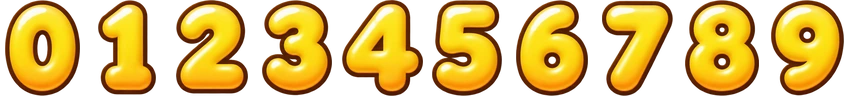
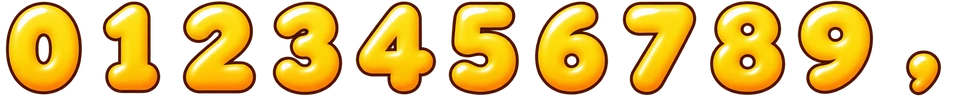
v0.9.22 점수 숫자 그림을 얇은 테두리로 새로(Codex), 쉼표도 그림으로

diff --git a/index.html b/index.html
@@ -1558,7 +1558,7 @@
   const elTitle = document.getElementById("overTitle");
   const coinNote = document.getElementById("coinNote");
 
-  const GAME_VERSION = "v0.9.21";
+  const GAME_VERSION = "v0.9.22";
   /* 제작사 스플래시(bamhobak friends 로고) — 2026-09-20 끔. 다시 켜려면 true */
   const SPLASH_USE = false;   // 코드를 고칠 때마다 뒤 두 자리를 올린다
   document.getElementById("ver").textContent = GAME_VERSION;
@@ -14195,7 +14195,7 @@
 
   /* v0.8.78 점수 숫자 — Codex 로 그린 사탕 숫자 0~9 (assets/ui/digits.webp, 한 칸 85x96 · 글자 폭 DIGIT_W).
      쉼표·m 같은 다른 글자는 그 자리에서 글자로 그린다. 높이 h 에 맞춰 줄이고, 그린 폭을 돌려준다(못 그리면 0) */
-  const DIGIT_W = [75, 58, 72, 70, 81, 70, 72, 71, 74, 73], DIGIT_CW = 85, DIGIT_CH = 96;
+  const DIGIT_W = [78, 59, 75, 71, 82, 72, 75, 75, 77, 77, 37], DIGIT_CW = 88, DIGIT_CH = 96;   // v0.9.22 얇은 테두리(Codex digits_thin) · 11번째 칸은 쉼표
   const digitImg = new Image(); let digitOk = false;
   digitImg.onload = () => { digitOk = true; }; digitImg.src = "assets/ui/digits.webp";
   function drawDigits(txt, x, y, h) {
@@ -14203,8 +14203,8 @@
     const k = h / DIGIT_CH, gap = -h * 0.06;
     let cx = x;
     for (const ch of String(txt)) {
-      const d = ch.charCodeAt(0) - 48;
-      if (d >= 0 && d <= 9) {
+      const d = ch === "," ? 10 : ch.charCodeAt(0) - 48;
+      if (d >= 0 && d <= 10) {
         const w = DIGIT_W[d];
         ctx.drawImage(digitImg, d * DIGIT_CW + (DIGIT_CW - w) / 2, 0, w, DIGIT_CH, cx, y, w * k, h);
         cx += w * k + gap;

diff --git a/README.md b/README.md
@@ -5,7 +5,7 @@
 👉 **플레이: https://bamhobak.github.io/ddongpi/**
 
 > 이 문서는 `index.html` 의 실제 값을 옮겨 적은 것입니다. 숫자를 고쳤으면 여기도 같이 고쳐 주세요.
-> 마지막으로 맞춰 본 판: **v0.9.21**
+> 마지막으로 맞춰 본 판: **v0.9.22**
 
 ## ⚔ 대전모드 (v0.8.24 한 폰 · v0.8.25 두 폰)
 시작하기를 누르면 **[방 만들기] · [방 참가](방 번호 4자리) · [한 폰으로 둘이서]** 를 고릅니다.
